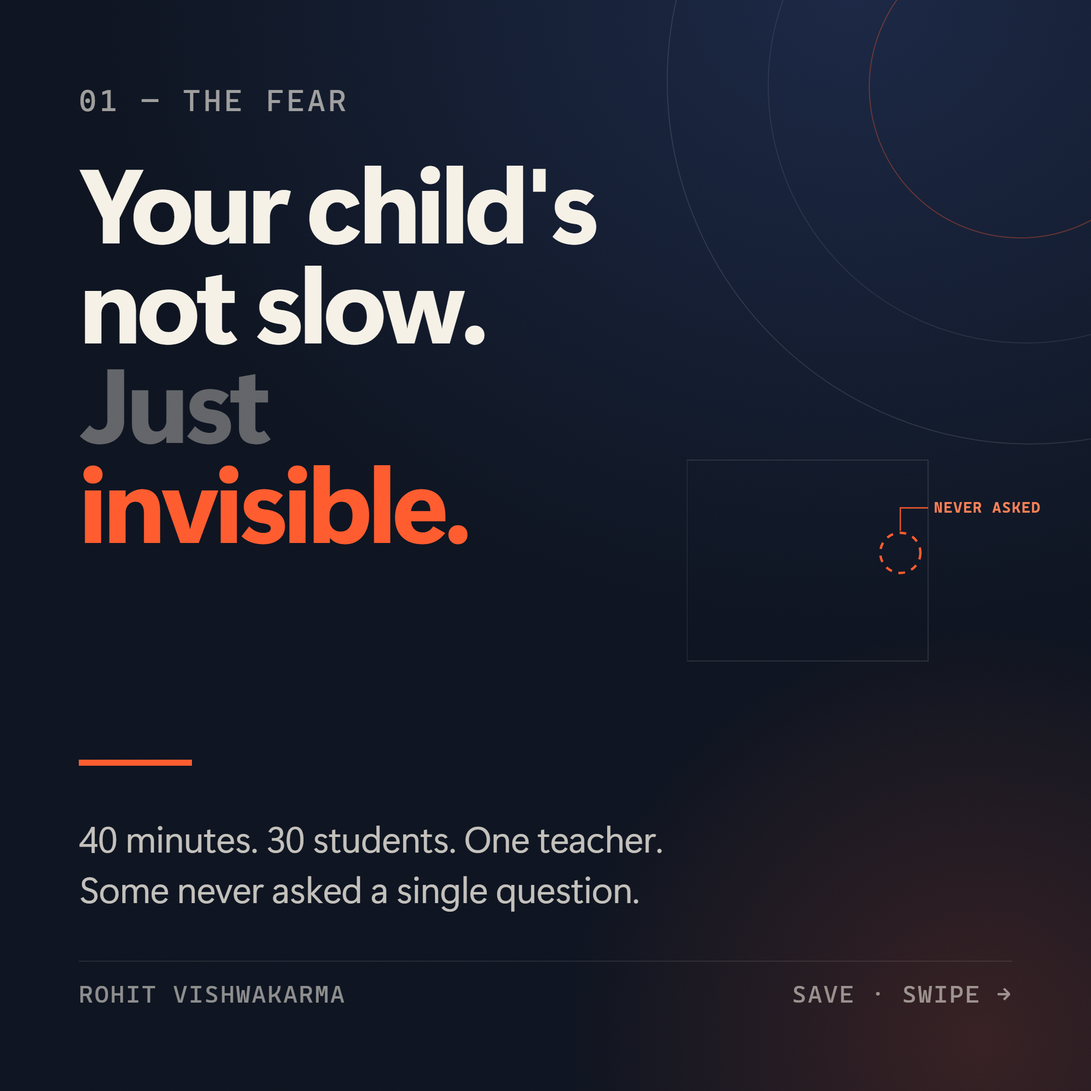
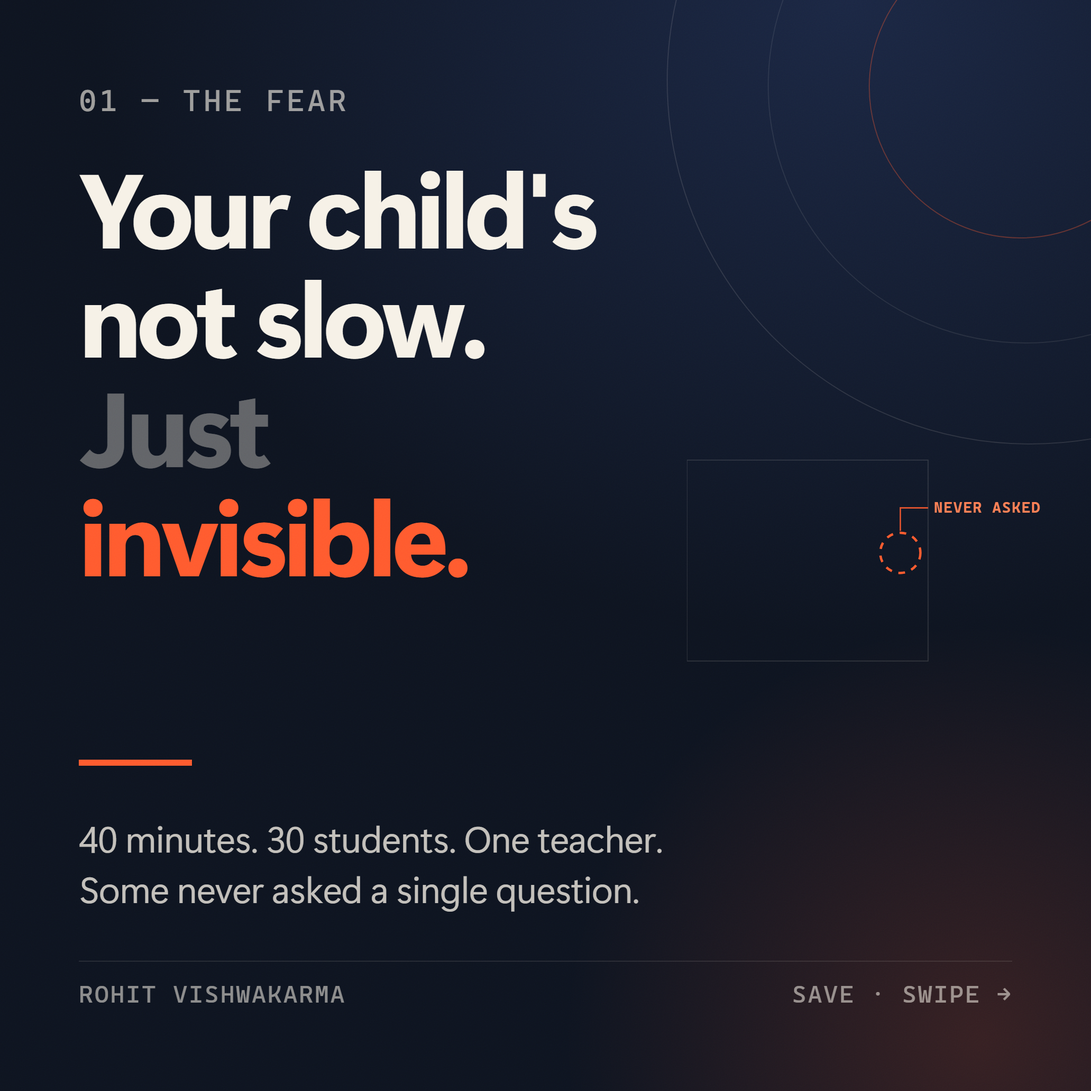
Add line spacing to multi-line headlines

Changed region(s): [[0.062, 0.1551, 0.4653, 0.5273], [0.4343, 0.1551, 0.5583, 0.2481]]

diff --git a/nextgen-creative-kit-45.html b/nextgen-creative-kit-45.html
@@ -88,6 +88,8 @@
   .kicker{font-family:var(--mono);font-size:21px;letter-spacing:4px;opacity:.62;margin-bottom:32px}
   .h1{font-size:104px;line-height:.95;letter-spacing:-4.6px;font-weight:750}
   .h1.sm{font-size:82px;letter-spacing:-3.4px;line-height:.98}
+  /* multi-line headlines need air between the <br> lines */
+  .s1 .h1,.s3 .h1{line-height:1.04}
   .h1 em{font-style:normal;color:var(--coral)}
   .h1 .dim{opacity:.36}
   .body{font-size:33px;line-height:1.42;letter-spacing:-.4px;opacity:.78;margin-top:34px;max-width:820px}
@@ -209,7 +211,7 @@
     -webkit-mask-image:linear-gradient(180deg,#000 0%,transparent 72%);
     mask-image:linear-gradient(180deg,#000 0%,transparent 72%)}
   .s6 .ghost{position:absolute;right:44px;top:300px;font-size:290px;font-weight:800;letter-spacing:-16px;line-height:.8;color:rgba(246,241,231,.13);pointer-events:none}
-  .s6 .h1{font-size:116px;line-height:.94;letter-spacing:-4.4px}
+  .s6 .h1{font-size:116px;line-height:1.03;letter-spacing:-4.4px}
   .s6 .body{font-size:31px;margin-top:30px}
   .s6 .btn{font-size:38px;padding:28px 44px;margin-top:44px}
   .s6 .btn svg{width:36px;height:36px}

diff --git a/nextgen-creative-kit-riyadh-45.html b/nextgen-creative-kit-riyadh-45.html
@@ -88,6 +88,8 @@
   .kicker{font-family:var(--mono);font-size:21px;letter-spacing:4px;opacity:.62;margin-bottom:32px}
   .h1{font-size:104px;line-height:.95;letter-spacing:-4.6px;font-weight:750}
   .h1.sm{font-size:82px;letter-spacing:-3.4px;line-height:.98}
+  /* multi-line headlines need air between the <br> lines */
+  .s1 .h1,.s3 .h1{line-height:1.04}
   .h1 em{font-style:normal;color:var(--coral)}
   .h1 .dim{opacity:.36}
   .body{font-size:33px;line-height:1.42;letter-spacing:-.4px;opacity:.78;margin-top:34px;max-width:820px}
@@ -209,7 +211,7 @@
     -webkit-mask-image:linear-gradient(180deg,#000 0%,transparent 72%);
     mask-image:linear-gradient(180deg,#000 0%,transparent 72%)}
   .s6 .ghost{position:absolute;right:44px;top:300px;font-size:290px;font-weight:800;letter-spacing:-16px;line-height:.8;color:rgba(246,241,231,.13);pointer-events:none}
-  .s6 .h1{font-size:116px;line-height:.94;letter-spacing:-4.4px}
+  .s6 .h1{font-size:116px;line-height:1.03;letter-spacing:-4.4px}
   .s6 .body{font-size:31px;margin-top:30px}
   .s6 .btn{font-size:38px;padding:28px 44px;margin-top:44px}
   .s6 .btn svg{width:36px;height:36px}

diff --git a/nextgen-creative-kit-riyadh.html b/nextgen-creative-kit-riyadh.html
@@ -88,6 +88,8 @@
   .kicker{font-family:var(--mono);font-size:21px;letter-spacing:4px;opacity:.62;margin-bottom:32px}
   .h1{font-size:104px;line-height:.95;letter-spacing:-4.6px;font-weight:750}
   .h1.sm{font-size:82px;letter-spacing:-3.4px;line-height:.98}
+  /* multi-line headlines need air between the <br> lines */
+  .s1 .h1,.s3 .h1{line-height:1.04}
   .h1 em{font-style:normal;color:var(--coral)}
   .h1 .dim{opacity:.36}
   .body{font-size:33px;line-height:1.42;letter-spacing:-.4px;opacity:.78;margin-top:34px;max-width:820px}
@@ -209,7 +211,7 @@
     -webkit-mask-image:linear-gradient(180deg,#000 0%,transparent 72%);
     mask-image:linear-gradient(180deg,#000 0%,transparent 72%)}
   .s6 .ghost{position:absolute;right:44px;top:300px;font-size:290px;font-weight:800;letter-spacing:-16px;line-height:.8;color:rgba(246,241,231,.13);pointer-events:none}
-  .s6 .h1{font-size:116px;line-height:.94;letter-spacing:-4.4px}
+  .s6 .h1{font-size:116px;line-height:1.03;letter-spacing:-4.4px}
   .s6 .body{font-size:31px;margin-top:30px}
   .s6 .btn{font-size:38px;padding:28px 44px;margin-top:44px}
   .s6 .btn svg{width:36px;height:36px}

diff --git a/nextgen-creative-kit.html b/nextgen-creative-kit.html
@@ -88,6 +88,8 @@
   .kicker{font-family:var(--mono);font-size:21px;letter-spacing:4px;opacity:.62;margin-bottom:32px}
   .h1{font-size:104px;line-height:.95;letter-spacing:-4.6px;font-weight:750}
   .h1.sm{font-size:82px;letter-spacing:-3.4px;line-height:.98}
+  /* multi-line headlines need air between the <br> lines */
+  .s1 .h1,.s3 .h1{line-height:1.04}
   .h1 em{font-style:normal;color:var(--coral)}
   .h1 .dim{opacity:.36}
   .body{font-size:33px;line-height:1.42;letter-spacing:-.4px;opacity:.78;margin-top:34px;max-width:820px}
@@ -209,7 +211,7 @@
     -webkit-mask-image:linear-gradient(180deg,#000 0%,transparent 72%);
     mask-image:linear-gradient(180deg,#000 0%,transparent 72%)}
   .s6 .ghost{position:absolute;right:44px;top:300px;font-size:290px;font-weight:800;letter-spacing:-16px;line-height:.8;color:rgba(246,241,231,.13);pointer-events:none}
-  .s6 .h1{font-size:116px;line-height:.94;letter-spacing:-4.4px}
+  .s6 .h1{font-size:116px;line-height:1.03;letter-spacing:-4.4px}
   .s6 .body{font-size:31px;margin-top:30px}
   .s6 .btn{font-size:38px;padding:28px 44px;margin-top:44px}
   .s6 .btn svg{width:36px;height:36px}
